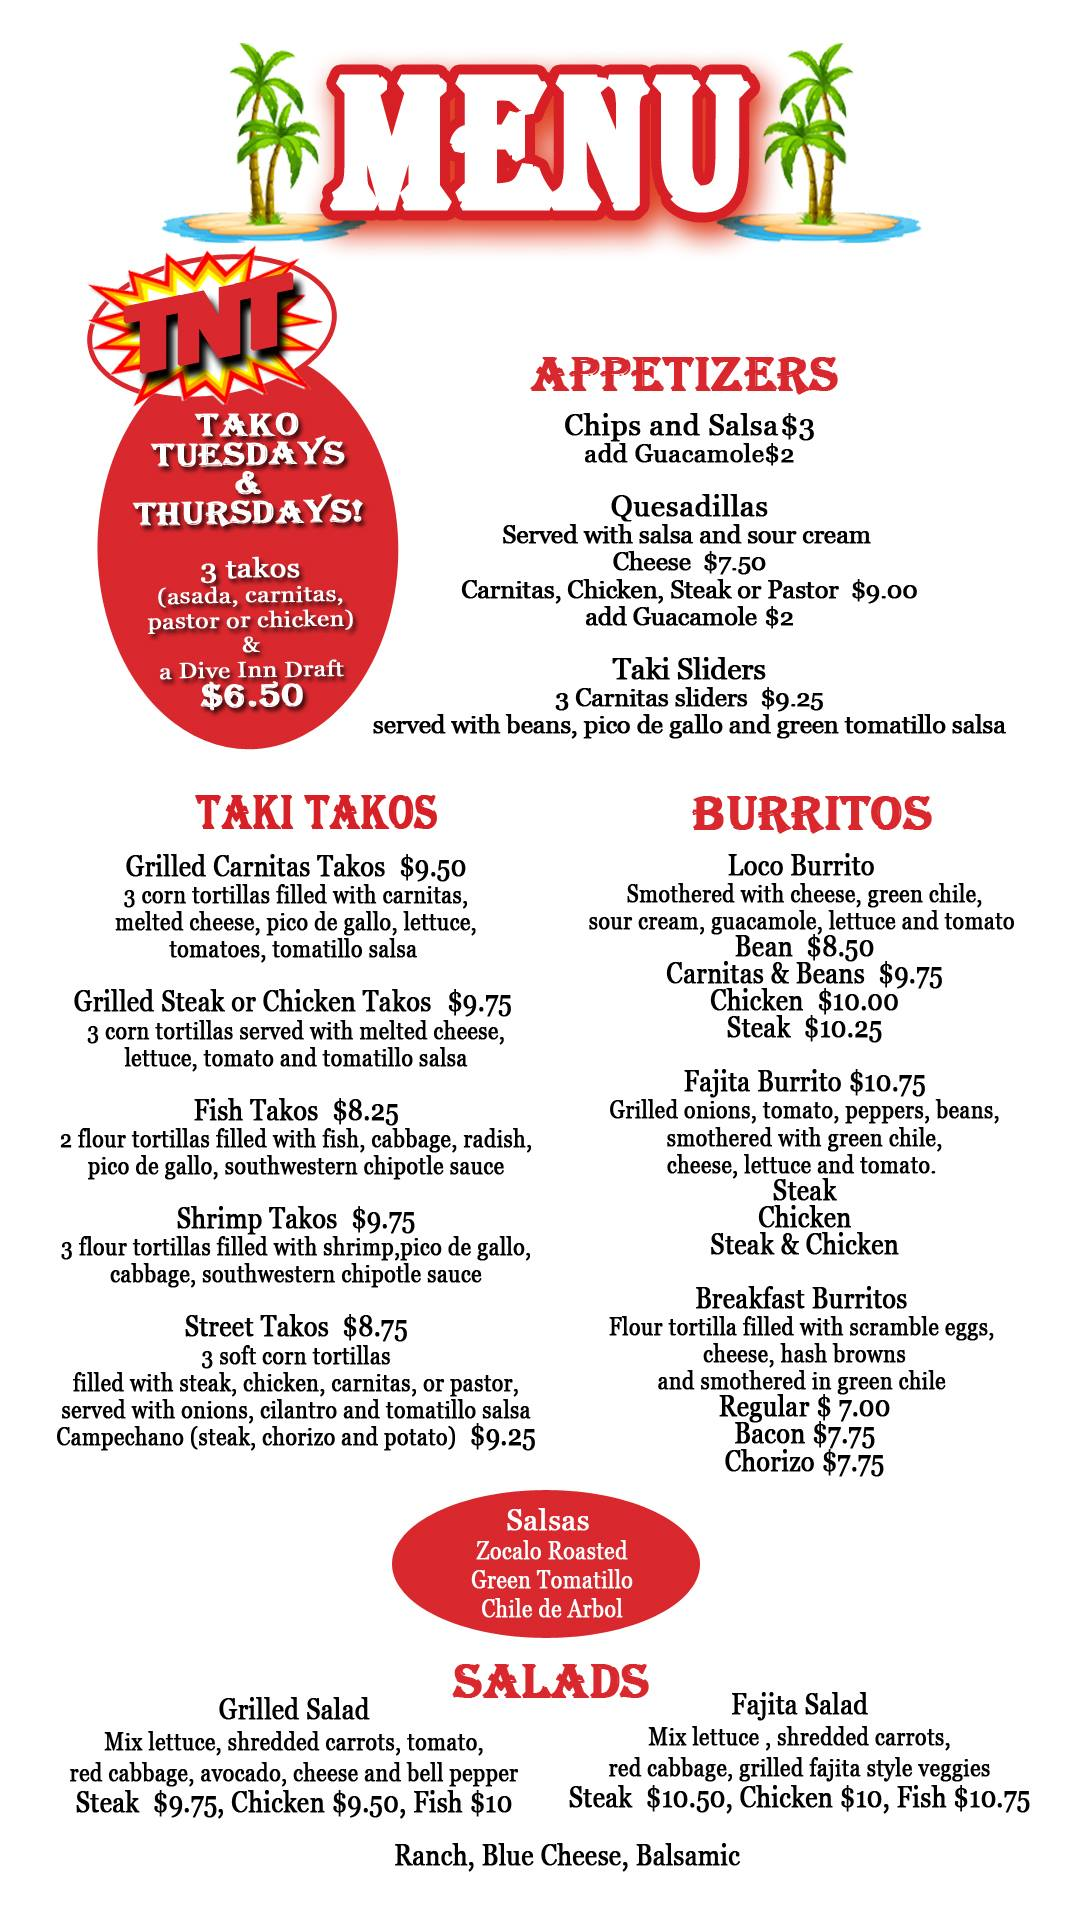
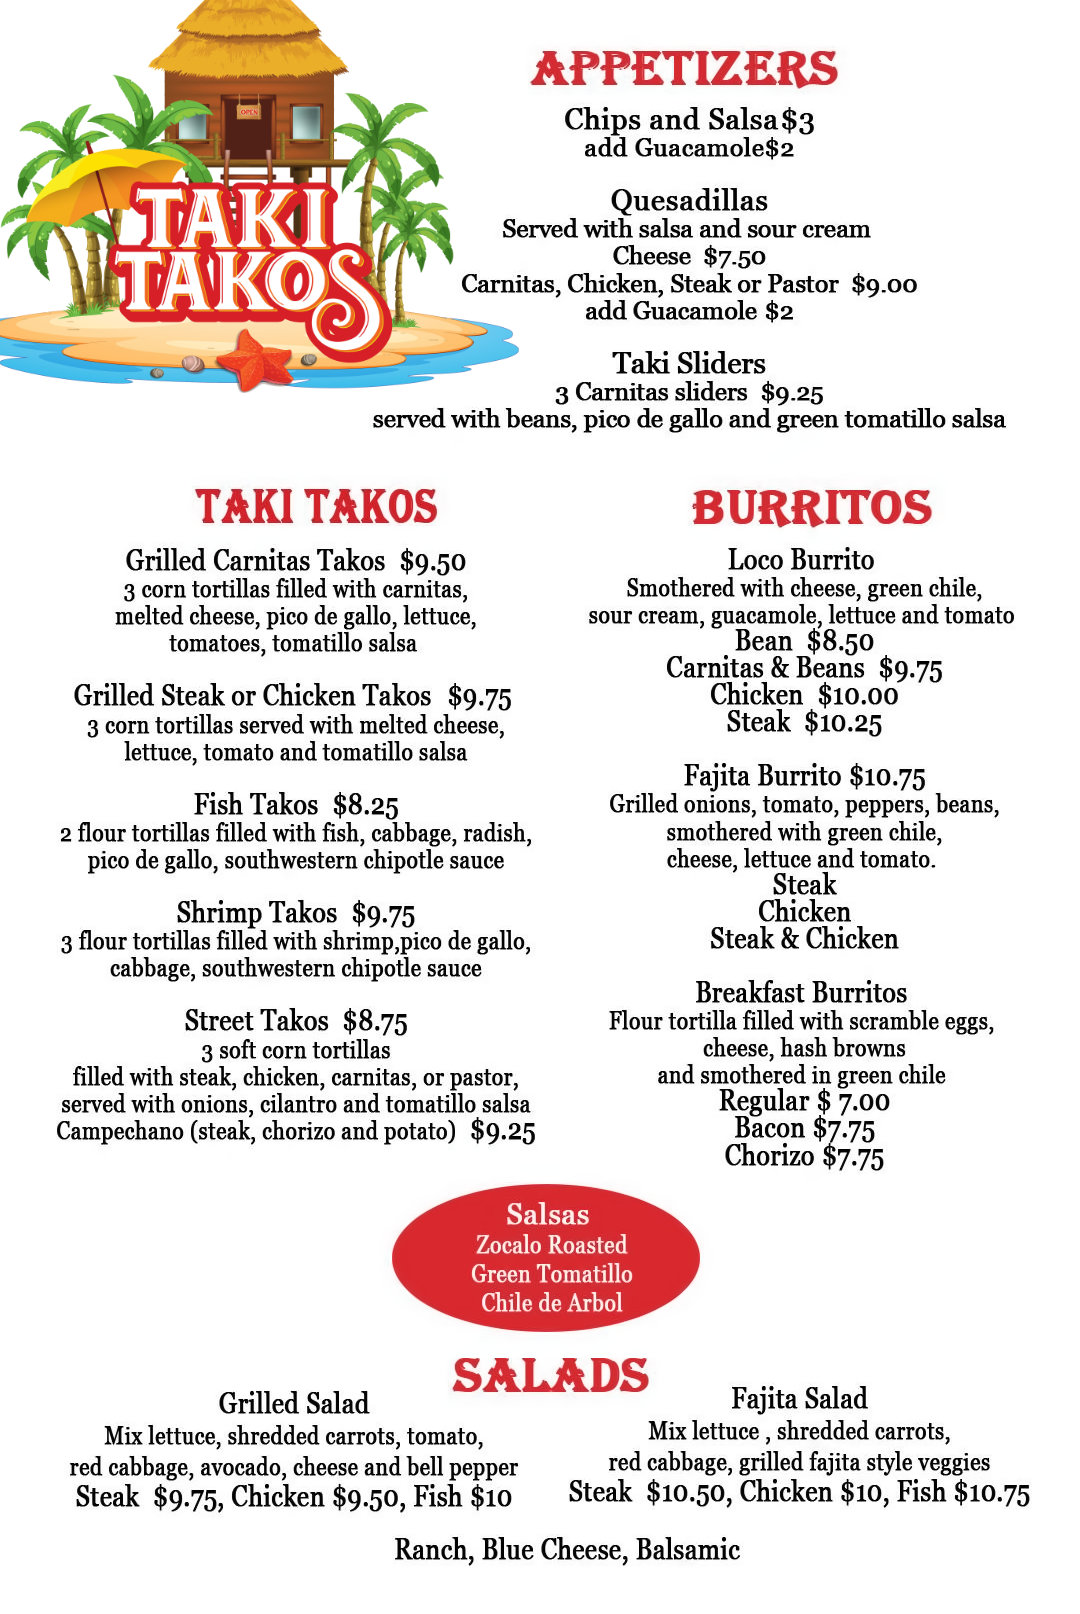
remove 10th anniversary callouts

diff --git a/packages/public-client/src/app/components/pages/home/home.component.scss b/packages/public-client/src/app/components/pages/home/home.component.scss
@@ -124,20 +124,78 @@ $verticalGap: 0.75rem;
     .page-title-section {
       position: relative;
 
-      .anniversary-callout {
+      .title-callout {
         z-index: 4; // TODO: why do we need 4 to be above slide-out logo?
         position: absolute;
-        top: 2vw;
-        left: 2vw;
-
-        &::after {
-          content: none;
+        bottom: 3vw;
+        left: 50vw;
+        transform: translateX(-50%);
+        opacity: 0.5;
+        transition: opacity 0.3s ease;
+        &:hover {
+          opacity: 1;
         }
 
-        img {
-          width: 16vw;
+        .title-callout-title {
+          position: absolute;
+          left: 11.3vw;
+          margin: 0;
+          padding: 0;
+          text-align: center;
+          transform: rotate(-25deg);
+          font-size: 1.2vw;
+
+          div {
+            margin: 0;
+            padding: 0;
+            line-height: 0.9;
+            transform: rotate(25deg);
+          }
         }
-      }
+        .title-callout-content {
+          display: flex;
+
+          a {
+            display: block;
+            &::after {
+              content: none;
+            }
+            &:hover, &:active {
+              opacity: 1;
+            }
+          }
+
+          .takis {       
+            h2 {
+              margin: -1vw 0 0;
+            }
+            img {
+              width: 12vw;
+            }
+          }
+  
+          .cluck {
+            position: relative;
+            left: 0.5vw;
+            img {
+              width: 9vw;
+            }
+            h2 {
+              position: absolute;
+              top: 64%;
+              left: 55%;
+              transform: translate(-50%, -50%);
+              margin: 0;
+              padding: 0;
+              line-height: 1;
+              font-size: 1.75vw;
+              font-family: 'Anton', sans-serif;
+              text-align: center;
+              text-shadow: 1px 1px 1px utility.$dive-black;
+            }
+          }
+        }        
+      }      
 
       .westword-award {
         z-index: 1;

diff --git a/packages/public-client/src/app/components/pages/home/home.component.html b/packages/public-client/src/app/components/pages/home/home.component.html
@@ -2,7 +2,7 @@
 <header>
   <div class="logo-container">
     <img [ngClass]="{'showLogo': showLogo}" src="../../../../assets/images/logoLg.png">
-    <img class="anniversary" [ngClass]="{'showLogo': showLogo}" src="assets/images/10th_Anniversary.png" />
+    <!-- <img class="anniversary" [ngClass]="{'showLogo': showLogo}" src="assets/images/10th_Anniversary.png" /> -->
   </div>
   <nav>
     <ul>
@@ -29,9 +29,29 @@
 <main>
   <!-- Landing title card with callouts -->
   <div class="page-title-section">
-    <a routerLink="/inside" fragment="anniversary" class="anniversary-callout">
-      <img src="assets/images/Dive_Inn_10th_Anniversary.png" />
-    </a>
+    <div class="title-callout">
+      <h2 class="title-callout-title">
+        <div>F</div>
+        <div>e</div>
+        <div>a</div>
+        <div>t</div>
+        <div>u</div>
+        <div>r</div>
+        <div>i</div>
+        <div>n</div>
+        <div>g</div>
+      </h2>
+      <div class="title-callout-content">
+        <a routerLink="/inside" fragment="menu" class="takis">
+          <img src="assets/images/Taki Takos Logo Transparent.png" />      
+        </a>
+        <a routerLink="/inside" fragment="cluck" class="cluck">
+          <img src="assets/images/Cluck_Chicken.svg" />
+          <h2>Cluck<br>Chicken</h2>
+        </a>
+      </div>
+    </div>
+
     <app-mouse-facer-title-card [titleLines]="siteTitleLines" imgUrl="url(assets/images/home/dive-inn-exterior.jpg)"
       [height]="'50vw'">
     </app-mouse-facer-title-card>

diff --git a/packages/public-client/src/app/components/pages/inside/inside.component.html b/packages/public-client/src/app/components/pages/inside/inside.component.html
@@ -19,12 +19,12 @@
     </a>
   </div>
   <div class="flyers">
-    <img id="anniversary" class="specials" src="assets/images/specials/10th_Anniversary_Specials.png" />
+    <img id="anniversary" class="specials" src="assets/images/specials/Taki Takos TNT $8.50.jpg" />
     <img id="menu" class="menu" src="assets/images/menu/Dive_Inn_Menu.jpg" />
   </div>
   <div class="cluck-container">
     <a class="cluck" href="http://cluckchickenden.com/" target="_blank">
-      <img src="assets/images/Cluck_Chicken.svg" />
+      <img id="cluck" src="assets/images/Cluck_Chicken.svg" />
       <div>
         <h2>Cluck Chicken</h2>
       </div>

diff --git a/packages/public-client/src/app/components/pages/inside/inside.component.scss b/packages/public-client/src/app/components/pages/inside/inside.component.scss
@@ -155,7 +155,7 @@
       }
       &.menu {
         width: 44vw;
-        margin-top: 10.5vw;
+        margin-top: 0vw;
       }
     }
     @include utility.media-breakpoint-gte(ws) {
@@ -164,7 +164,7 @@
       }
       &.menu {
         width: 37vw;
-        margin-top: 9vw;
+        //margin-top: 9vw;
       }
     }
     @include utility.media-breakpoint-gte(hd) {
@@ -173,7 +173,7 @@
       }
       &.menu {
         width: 30vw;
-        margin-top: 7.1vw;
+        //margin-top: 7.1vw;
       }
     }
   }
